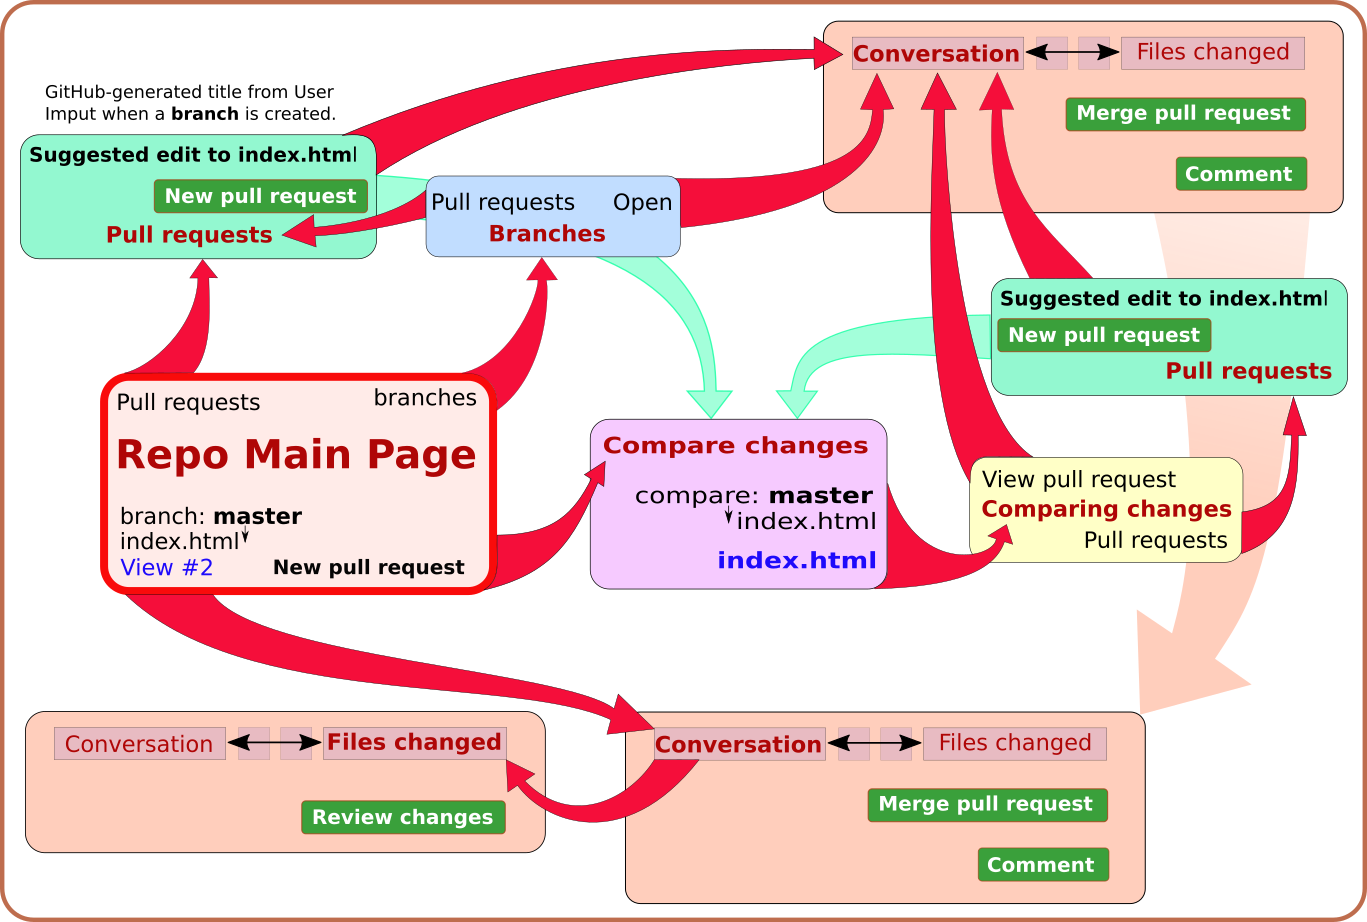
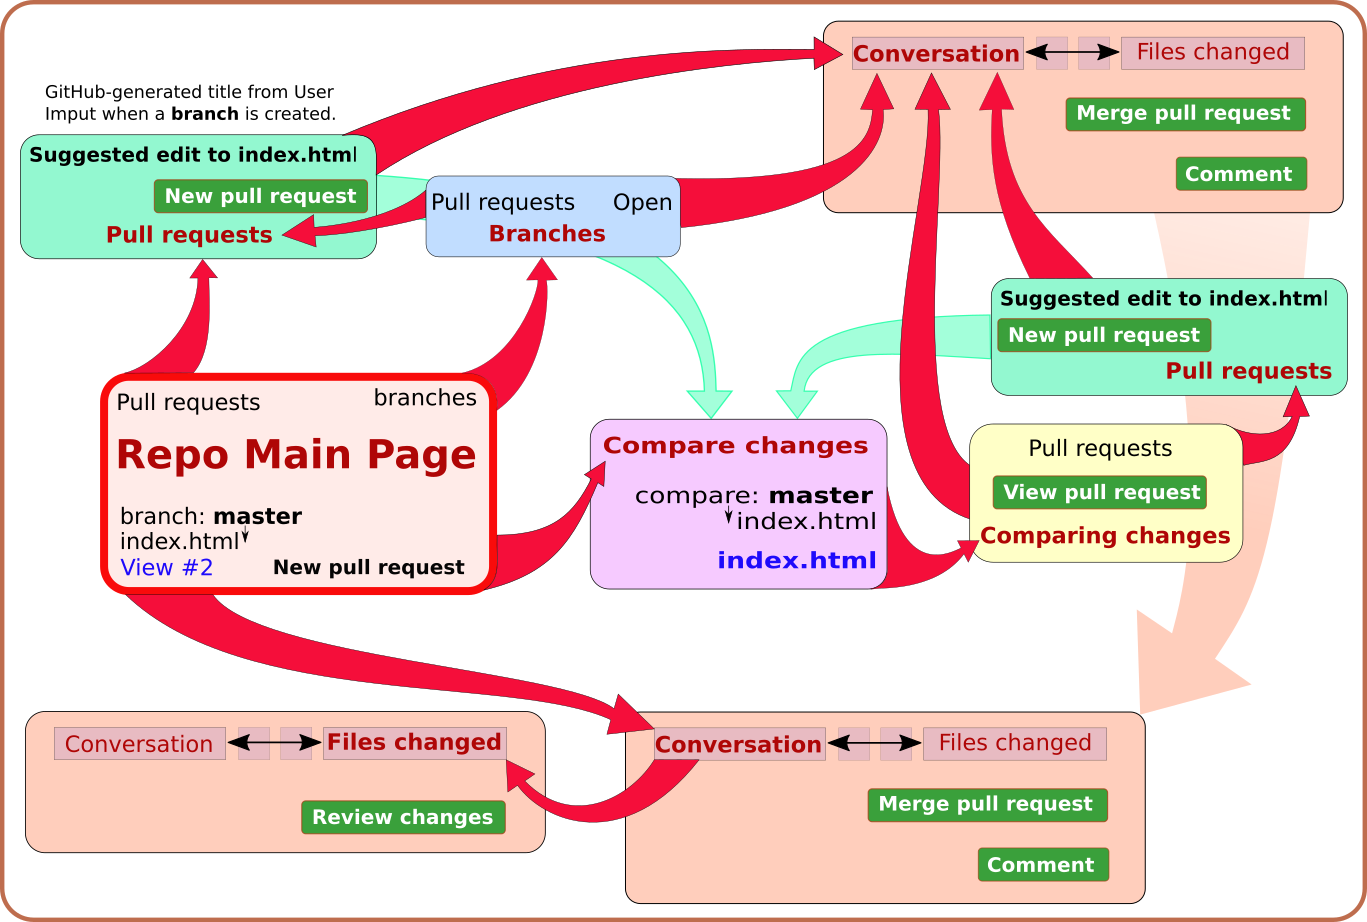
Flow charts added and updated

Changed region(s): [[0.6452, 0.0607, 0.9525, 0.6377]]

diff --git a/newRepo.html b/newRepo.html
@@ -1,0 +1,68 @@
+<!DOCTYPE html>
+<html>
+  
+<head>
+<meta charset="UTF-8">
+<title>Chris's Page</title>
+
+<style type="text/css">
+/*@import url(path/stylesheet.css);*/
+body {
+  margin: 0;
+  padding: 0;
+  font-family: Verdana, sans-serif;
+  box-sizing: border-box;
+}
+
+#contentArea {
+  width: 900px;
+  margin: auto;
+  padding: 0 20px;
+}
+
+img {
+  max-width: 100%;
+  height: auto;
+}
+
+.listStyle0 {
+  list-style: none;
+  padding: 0;
+}
+
+.highlight {
+  color: red;
+}
+
+</style>
+
+</head>
+  
+<body>
+<div id="contentArea">
+
+    <ul>
+    <li><a href="index.html">Home Page</a></li>
+    <li><a href="pullRequest.html">The Pull Request</a></li>
+    <li><a href="pageChris.html">Chris's Page</a></li>
+    <li><a href="pageDavid.html">David's Page</a></li>
+  </ul>
+
+  <h1>Learning Git and GitHub</h1>		
+
+		
+  <h2>Chris's Page</h2>
+		
+  <h3>What I don't understand about branches</h3>
+  <p>I don't understand how I can access your gutHub account in order to push an amended branch, for eample. I managed to create a new branch in your gitHubDUH repo which I called DavidPageBranch, thinking I would amend some of the text you had already put there, but have since realised that a new branch is a 'reproduction' of your complete repo. This now makes sense to me because I might well want to make amends to the css, for example, which would be in another file.</p>
+  <p>I usually link to a gitHub repo through the command line which is where I can create new branches and having made changes push that branch back to be assessed and then merged, if agreed, by the administrator – usually me – but in this case you (because it is your repo and I don't have your login passwords to access your account and push the branch I have worked on.</p>
+  <p>Clearly I can see your repo through my gitHub account but I am not sure how that happens. So far I have simply clicked on the link that came with the inite to collaborate. Anyway, I will try various ways of downloading my changes. (By the way, do you like my new 'avatar'? It's much like the old one but I got rid of the pastel colour and added a shadow to give it a bit of oooommpf!)</p>
+  <p>I will make some minor amends to your page to test that you can see what I have done, and if you are happy you can merge with your master.</p>
+
+
+
+</div>
+  
+</body>
+  
+</html>

diff --git a/pullRequest.html b/pullRequest.html
@@ -169,11 +169,9 @@ img {
   <img src="images/pages/flowRequest.png">
   <br>
 
-  <p>This is such an easy misunderstand, but a <strong>pull request</strong> is not a request <em>you</em> make, asking if it's OK to pull something down to your repo or computer. Actually, it's the very opposite. If you have a contribution you'd like to add to someone else's repo, you'll make a <strong>pull request</strong> asking them if they'd like to pull <em>your</em> contribution down to <em>their</em> repo. In other words, you're not inviting them to <em>your</em> party, you're asking them to invite you to <em>their's</em>!</p>
+  <p>A <strong>pull request</strong> is <em>not</em> a request to download or 'pull' anything on to the sender's device. Actually, it's the opposite, asking the recipient to download or 'pull' something on to their's. It might better have been called a 'push request.'</p>
 
-  <p> make <strong>branch</strong> asking either for a general review and comments, or for a review pending a possible <strong>merge</strong> to the <strong>master</strong> &ndash; or even to another <strong>branch</strong>.</p>
-
-
+  
   <div style="height: 30px;"></div>
   <a href="#top">Top</a>
   <hr>
@@ -183,6 +181,8 @@ img {
 <!-- GitHub Pages and Tabs -------------------------------------------------- -->
 
   <h1 id="thePages">Navigating the 'Pull Request' Pages and Tabs</h1>
+
+  <p> make <strong>branch</strong> asking either for a general review and comments, or for a review pending a possible <strong>merge</strong> to the <strong>master</strong> &ndash; or even to another <strong>branch</strong>.</p>
 
   <p>To get back to here, click the <a href="#thePages">Back</a> link.</p>
 
@@ -249,6 +249,10 @@ img {
 
   <h5 id="pathways">Fig. #&mdash;Navigating a Labyrinthine Network of Paths</h5>
   <img src="images/pages/pathways.png">
+  <br>
+  <img src="images/pages/pathLines.png">
+  <br>
+  <img src="images/pages/pathLines2.png">
 
   <div style="height: 60px;"></div>
   <a href="#top">Top</a>
